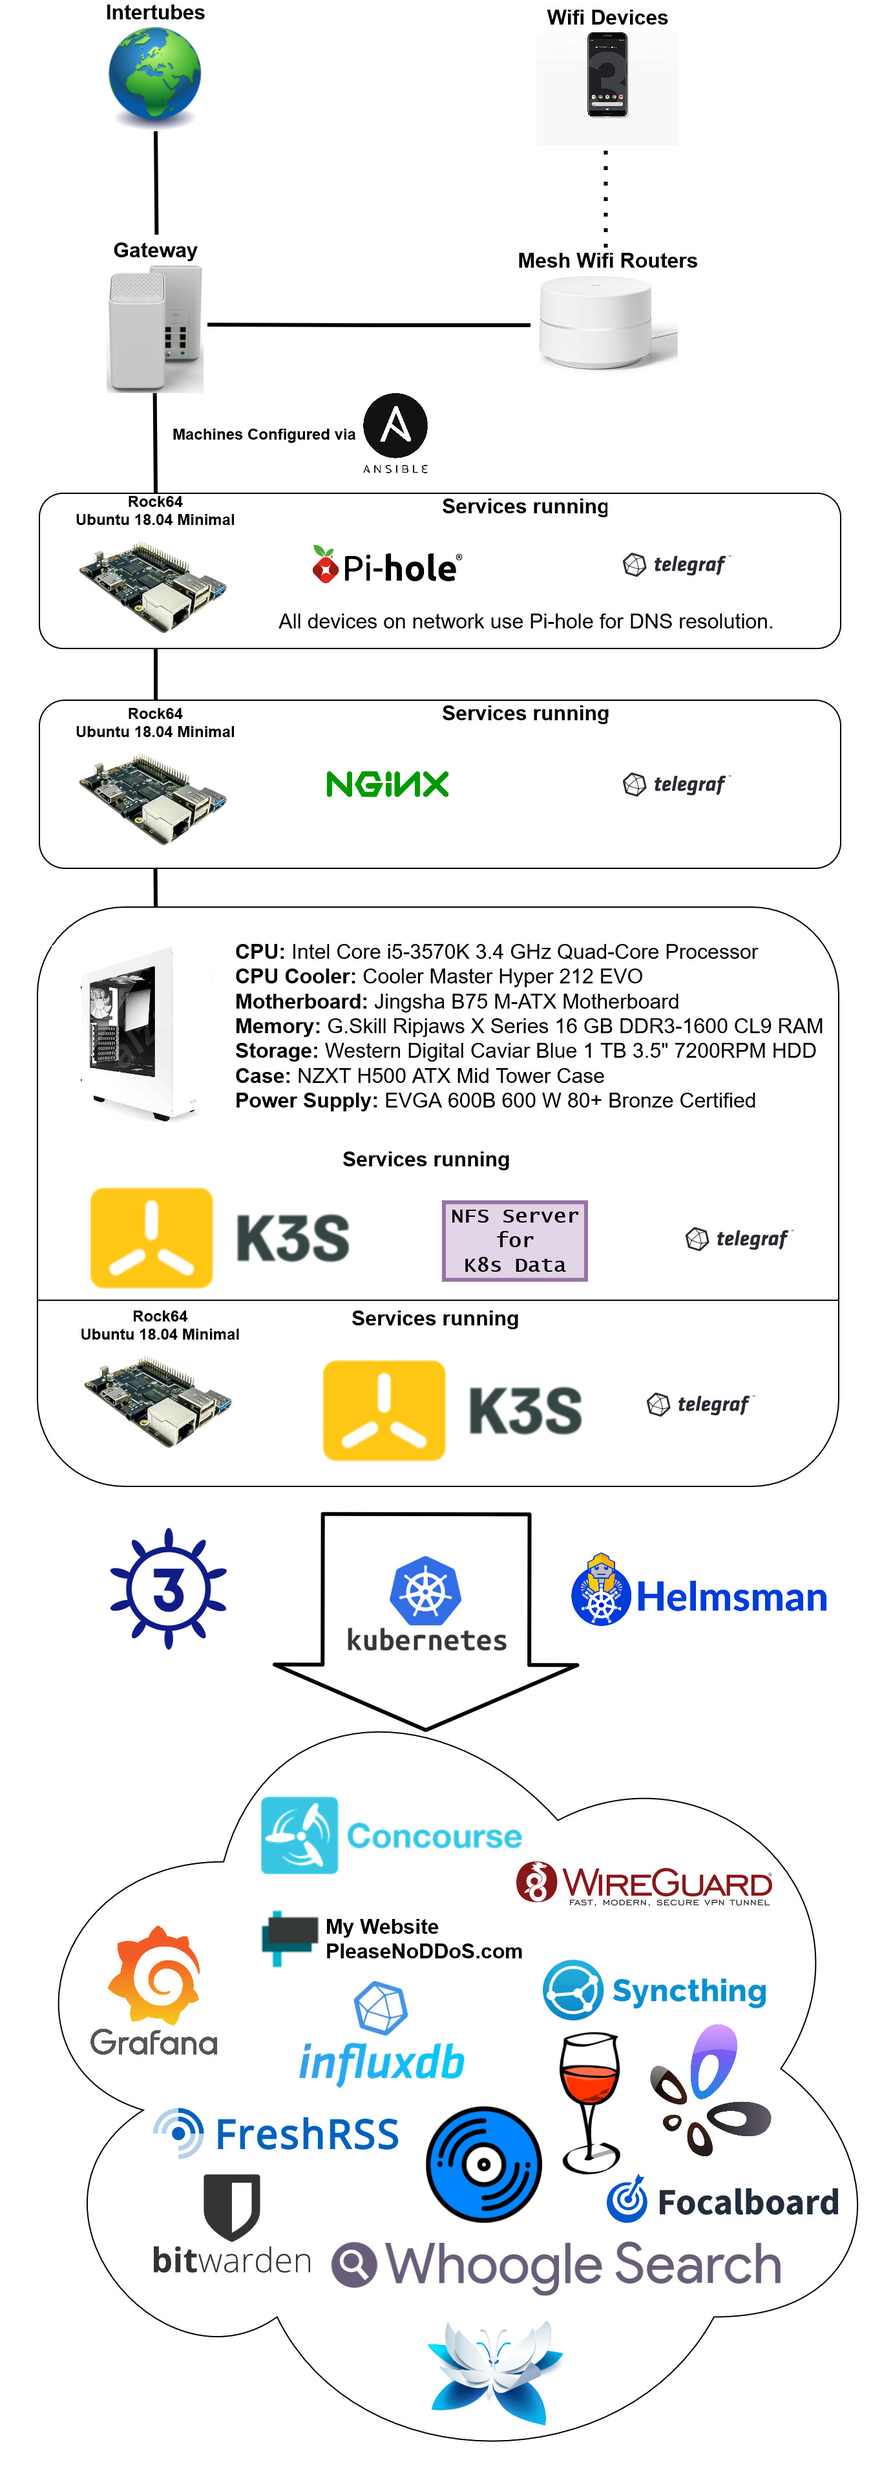
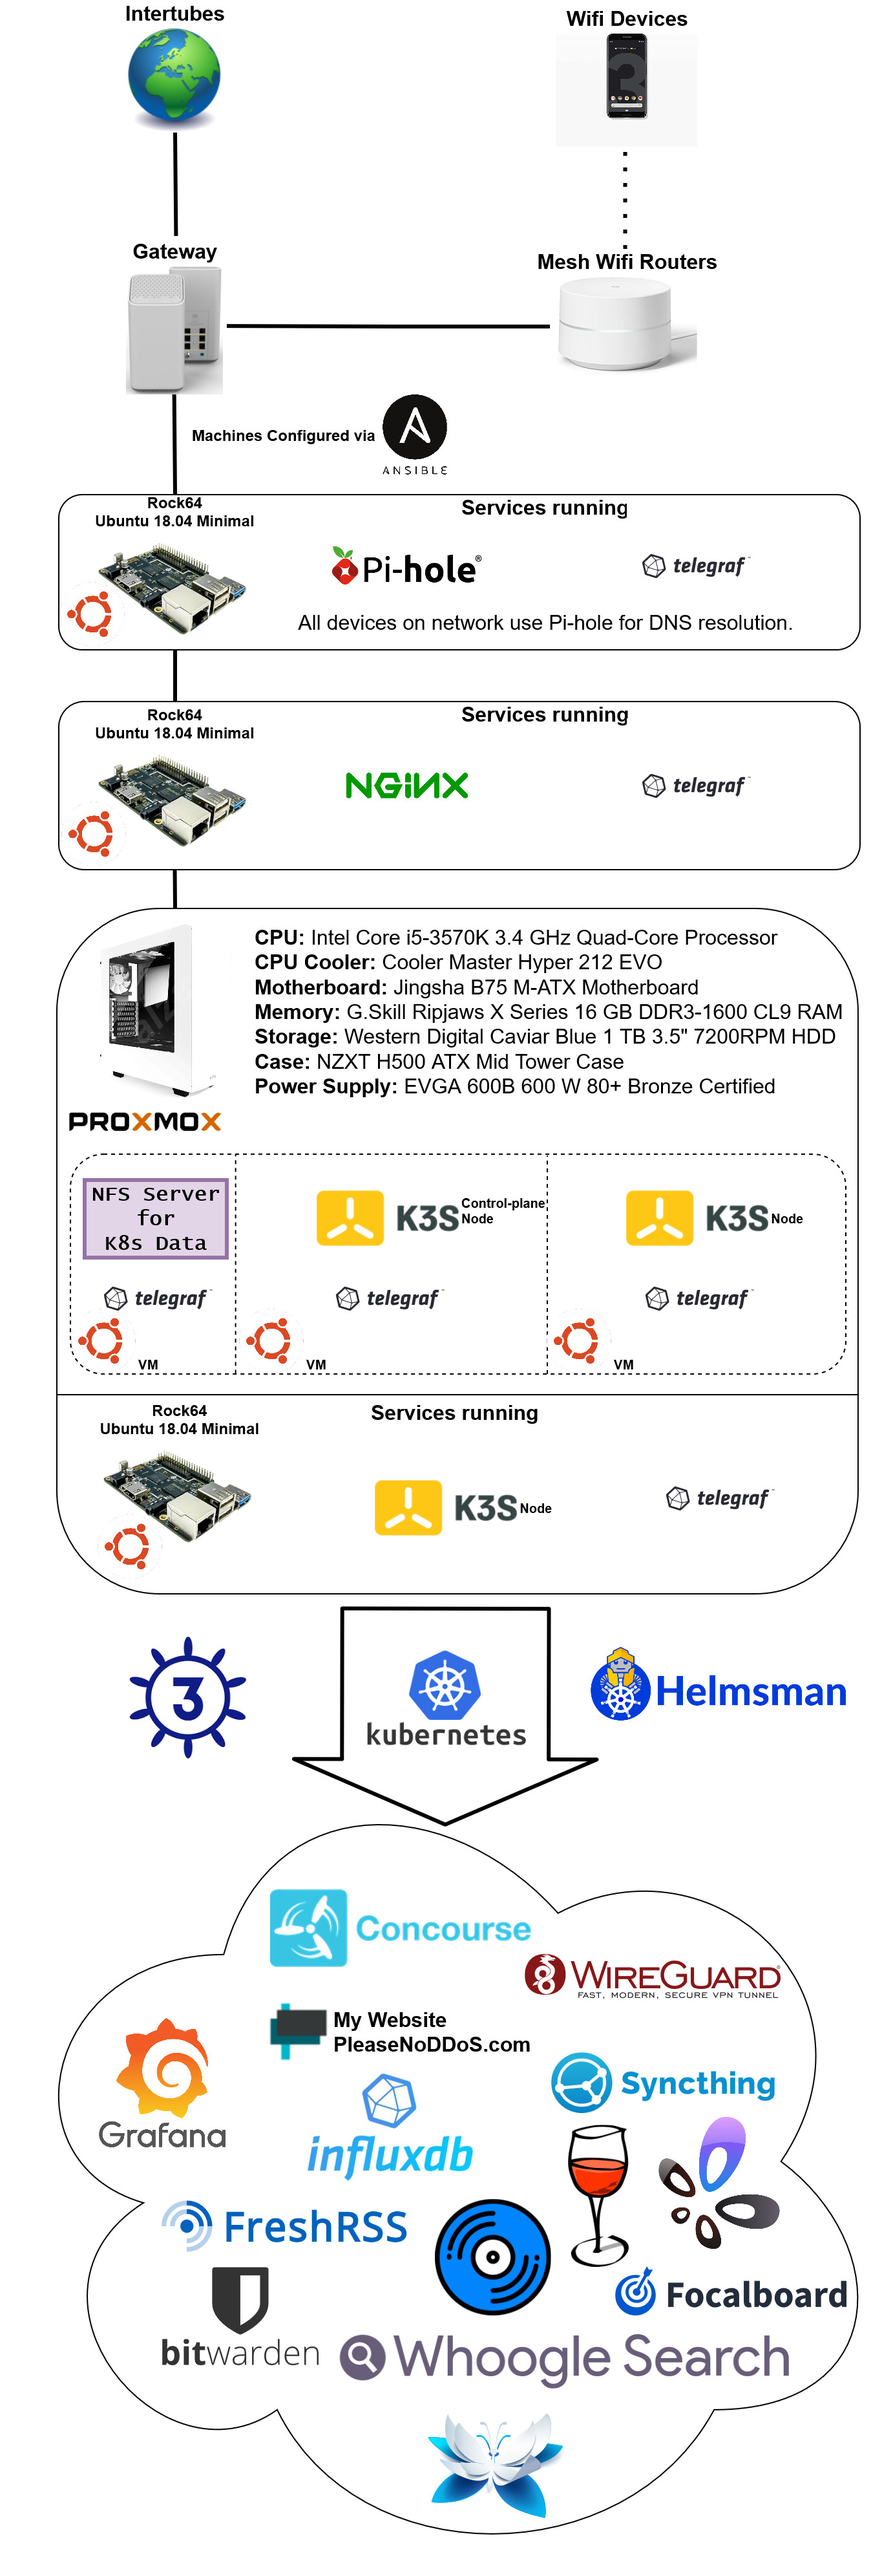
proxmox

diff --git a/flipenergy/content/post/proxmox.md b/flipenergy/content/post/proxmox.md
@@ -1,0 +1,15 @@
+---
+title: "Proxmox"
+date: 2021-06-22T10:40:09-07:00
+draft: false
+---
+
+So I finally bit the bullet and changed the OS on my main server to [Proxmox](https://proxmox.com/en/proxmox-ve).
+
+I had 3 reasons for doing this. First, I wanted to split up the computing power of the physical hardware so I can have 2 K3s nodes running as individual VMs. The second reason was that I wanted to separate out my NFS server a single host isn't doing two different things. The final reason was that I just wanted to learn and try out Proxmox.
+
+I want to give a plug for the excellent tutorial I used. It's made by one of my favorite content creators, CraftComputing. I used [this video](https://www.youtube.com/watch?v=azORbxrItOo) as a reference for the installation and setting up my VMs.
+
+Now that all that is done, I have a separate NFS server, and a 3 node cluster of K3s. Two of which run AMD64 architecture and the third runs ARM64 since it's a rockbox single board computer. Check out the diagram on the homepage.
+
+![Snippet of my main Grafana Dashboard with the new hosts](grafana.png)
